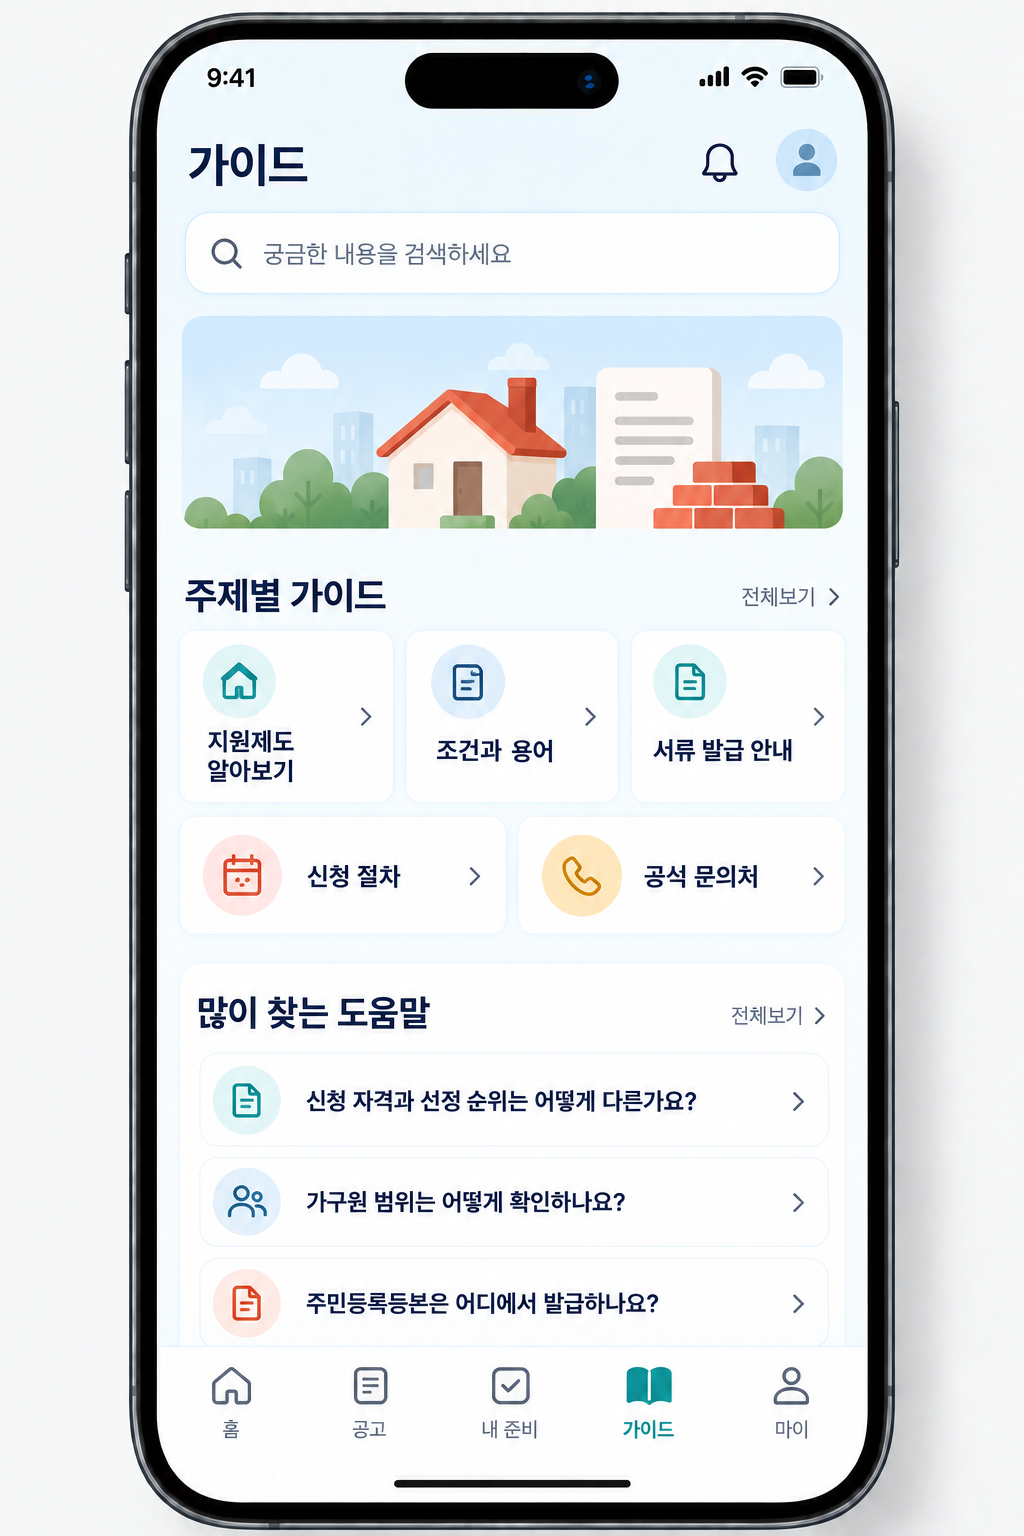
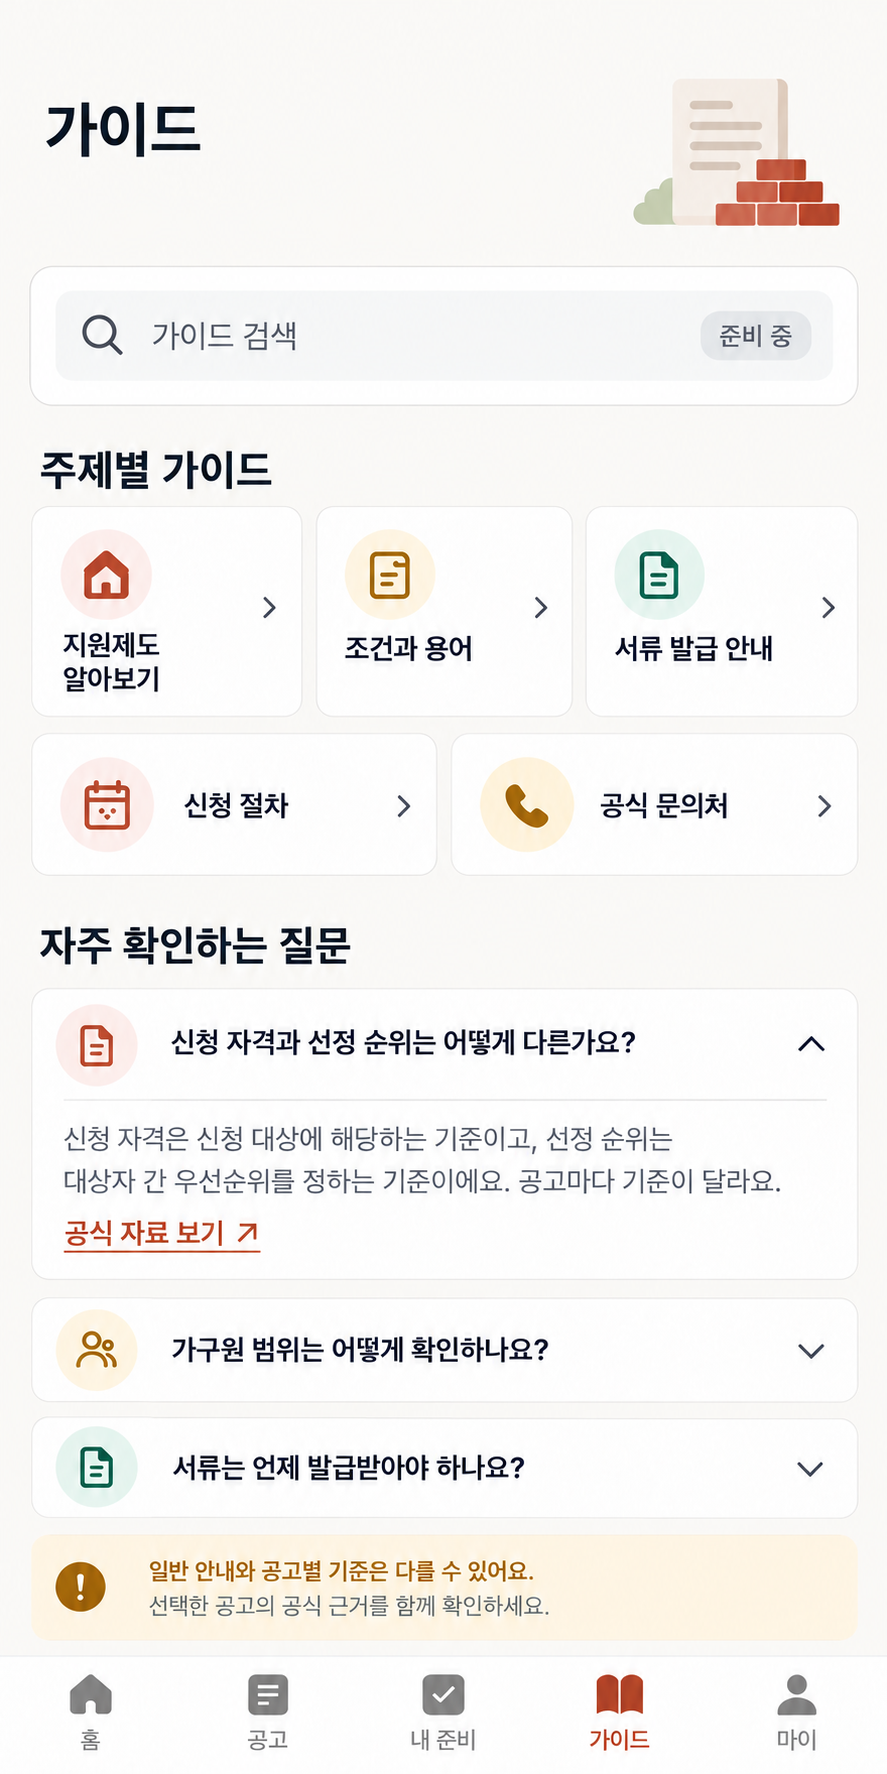
docs: 화면 설계 이미지 10개 갱신

diff --git a/docs/history/entries/2026-10-31-screen-mockups.md b/docs/history/entries/2026-10-31-screen-mockups.md
@@ -1,0 +1,48 @@
+# 화면 설계 이미지 10개 갱신
+
+- 기록일: 2026-10-31 (Asia/Seoul)
+- 기록 상태: 근거 정리·담당자 검토 전
+- 작업 상태: 제출 준비
+- 유형: 문서 / 디자인 자료
+- 담당·검토: 기존 사용자 이미지 변경, Codex 파일 검증·커밋·PR 준비; 상세 디자인 담당·팀 검토자 미확인
+
+## 배경·문제
+
+사용자가 기존 화면 이미지 변경과 gitignore 추가를 각각 별도 브랜치·PR로 제출하도록 요청했다. 이번 변경은 사용자가 작업 폴더에 남긴 화면 설계 PNG 10개다.
+
+## 고려한 선택지
+
+실제 화면 구현과 함께 수정하는 대신 요청한 기존 이미지 변경만 제출한다. 개인 IDE 설정 제외는 별도 PR로 분리한다.
+
+## 결정·이유
+
+최신 develop의 c78d0fa에서 별도 작업 사본과 chore/screen-mockups-20261031 브랜치를 만들었다. 기존 파일명·문서 참조 경로를 유지해 이미지 교체 범위를 분명히 한다.
+
+## 변경·해결 과정
+
+홈, 공고 목록·상세, 조건 확인·결과, 내 준비, 서류 체크리스트, 신청 일정, 가이드, 마이 화면의 기존 PNG를 사용자 변경본으로 교체했다. 이미지를 다시 제작하거나 앱 코드를 수정하지 않았다.
+
+## 검증·결과
+
+- PNG 10개 모두 이미지 디코딩 성공, 크기 887×1774.
+- 전체 미리보기에서 각 화면의 구성과 표시를 확인했다. 세부 문구·사용성·공식 정책 정확성 검증으로 확대하지 않는다.
+- 원본 작업 폴더와 제출 사본의 SHA-256 일치, 변경 파일 범위 및 diff 공백 검사 확인.
+- 문서 이미지 변경이므로 제품 코드 빌드·기능 테스트를 새로 실행하지 않는다.
+
+## 기여·한계
+
+이미지의 세부 수정 의도나 디자인 과정은 제공되지 않아 추정하지 않는다. 실제 앱 동작·구현 완료의 증거가 아닌 화면 설계 자료다. 기존 로컬 검토 기록과 개인 설정 변경은 보존한다.
+
+## 발표·포트폴리오 메모
+
+화면 설계 자료를 기능 구현과 구분하여 버전 관리하고, 사용자 제공 변경을 독립적인 검토 단위로 제출했다.
+
+## 후속 작업
+
+PR에서 화면 설계 의도와 현재 구현의 차이를 검토한다. 병합은 별도 요청 범위다.
+
+## 변경 파일
+
+- docs/assets/mockups/01-home.png ~ 10-my-page.png (기존 10개)
+- docs/history/entries/2026-10-31-screen-mockups.md
+- docs/history/README.md

diff --git a/docs/history/README.md b/docs/history/README.md
@@ -61,6 +61,7 @@ hook이 추가할 수 있는 파일은 새 자동 수집 기록과 이 문서의
 | --- | --- | --- |
 | 2026-10-31 | [외부 로그인 및 LH 실서비스 연동 검증](entries/2026-10-31-external-integration-verification.md) | 근거 정리·담당자 검토 전 |
 | 2026-10-31 | [백엔드 시작 실패: 중지된 PostgreSQL 복구](entries/2026-10-31-local-db-startup.md) | 근거 정리·담당자 검토 전 |
+| 2026-10-31 | [화면 설계 이미지 10개 갱신](entries/2026-10-31-screen-mockups.md) | 근거 정리·담당자 검토 전 |
 | 2026-10-30 | [백엔드 구현과 실제 API 연동](entries/2026-10-30-backend-integration.md) | 근거 정리·담당자 검토 전 |
 | 2026-10-30 | [누적 PR 검토와 develop 통합 검증](entries/2026-10-30-develop-integration-review.md) | 근거 정리·담당자 검토 전 |
 | 2026-10-30 | [프론트엔드 전반 구현과 기능 계약 구체화](entries/2026-10-30-frontend-implementation.md) | 근거 정리·담당자 검토 전 |
